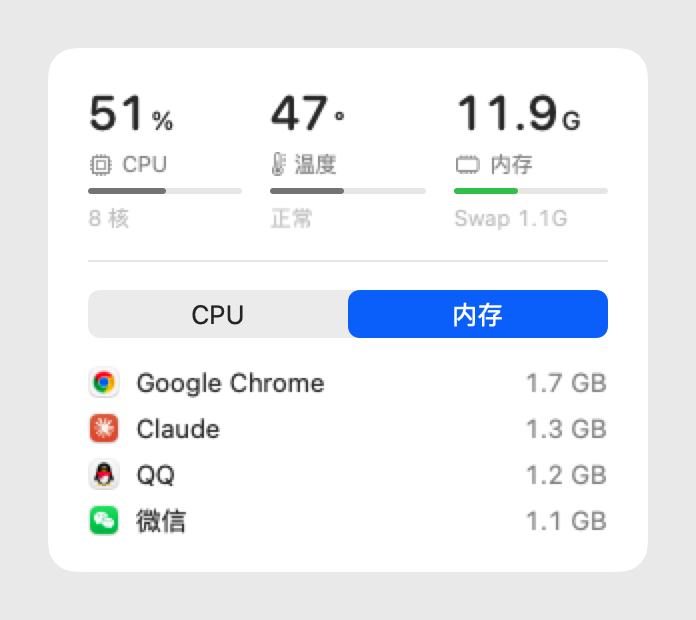
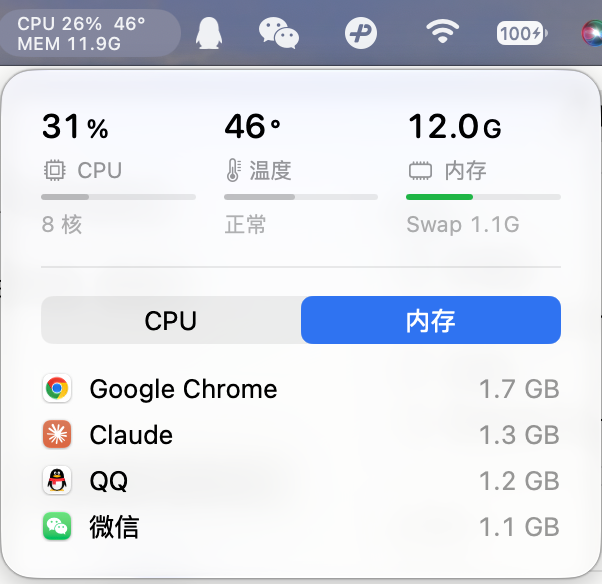
Use a real menu bar screenshot in README

diff --git a/README.md b/README.md
@@ -2,7 +2,7 @@
 
 极简 macOS 菜单栏监视器：CPU、温度、内存。单个 Swift 文件。
 
-<img src="docs/screenshot.png" width="348" alt="MiniMonitor 面板">
+<img src="docs/screenshot.png" width="301" alt="菜单栏和面板">
 
 - 菜单栏常显 CPU / 温度 / 内存
 - 面板显示内存压力和 Swap,以及占用最高的 App
